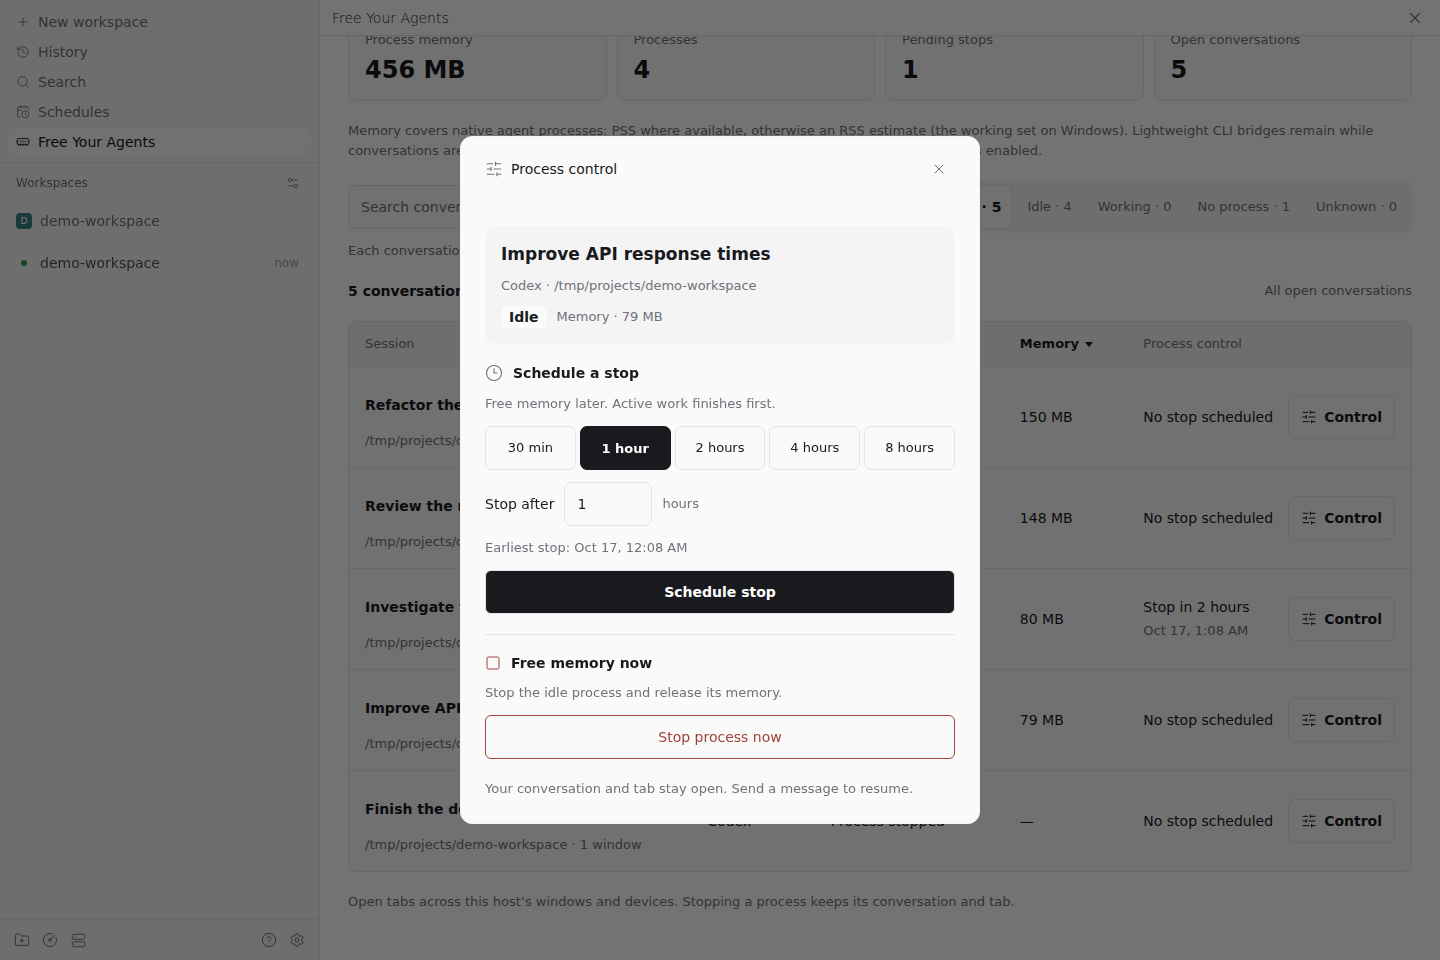
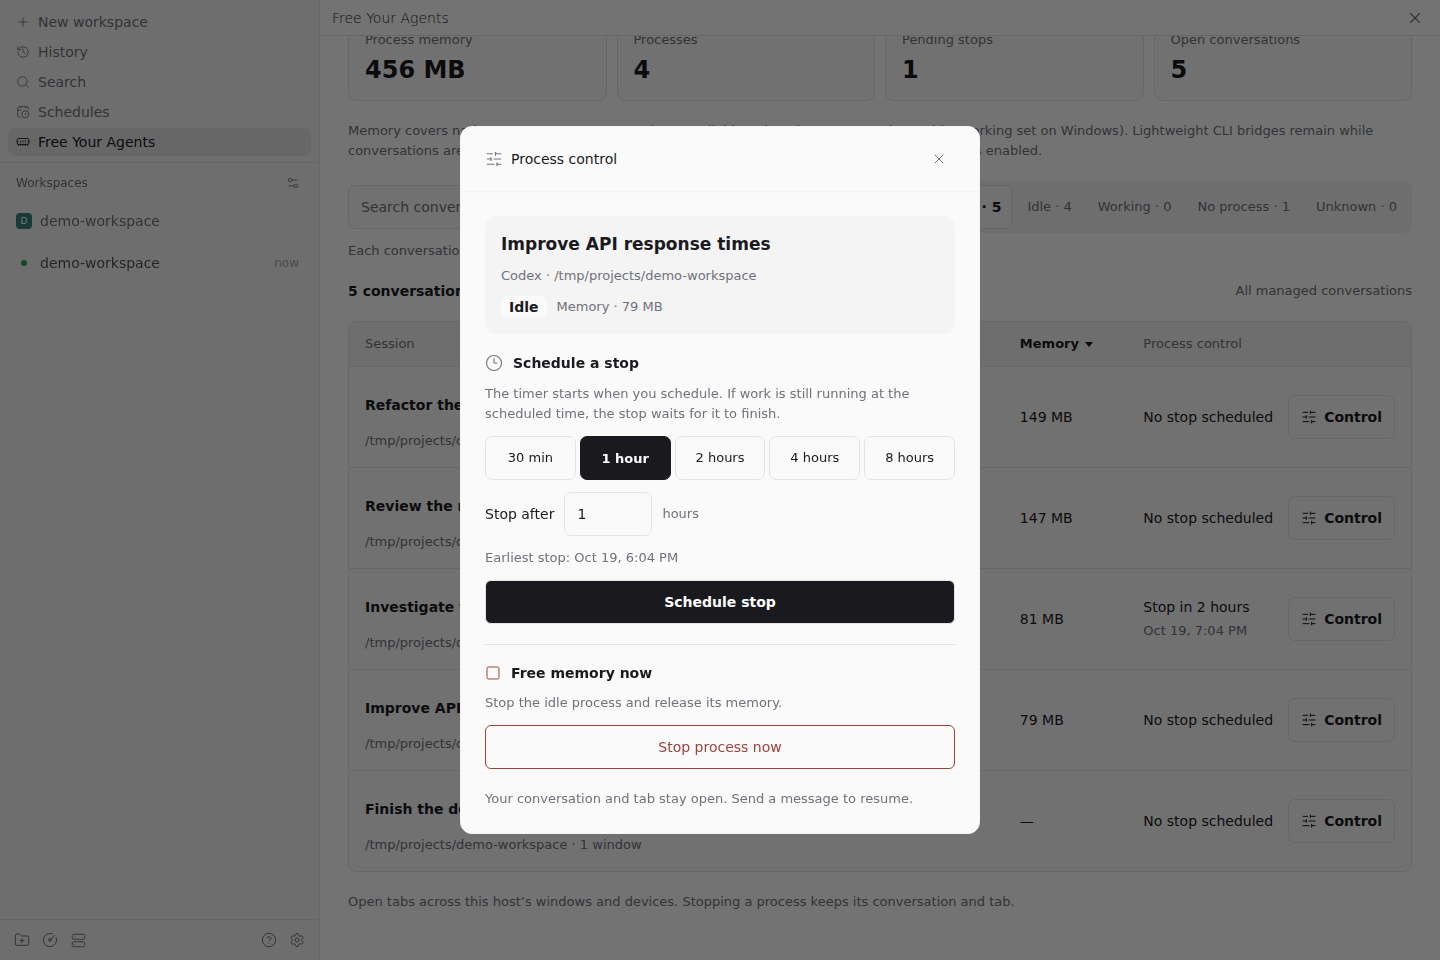
chore: release Free Your Agents v1.0.1

diff --git a/CHANGELOG.md b/CHANGELOG.md
@@ -1,0 +1,25 @@
+# Changelog
+
+## 1.0.1 — 2026-10-19
+
+### Added
+
+- Schedule, update or cancel a stop while Claude is working. The timer starts when the schedule is saved. Finishing early does not stop the process early; work that continues past the deadline keeps the process running until it is safe to stop. This also works on Paseo 0.11. ([#5](https://github.com/babo-jeonguk/paseo-free-your-agents/pull/5))
+- **Include background conversations** in the plugin's Settings. It is off by default and applies to every window and device connected to the host. Enabling it includes open tabs in background workspaces. ([#4](https://github.com/babo-jeonguk/paseo-free-your-agents/pull/4))
+
+### Changed
+
+- Manage conversations opened as tabs only; mobile conversation sheets are excluded. Background workspaces are excluded from the list, memory totals and process controls unless enabled in Settings. Turning the setting off cancels their pending stops without stopping their processes; turning it back on does not restore those stops. ([#4](https://github.com/babo-jeonguk/paseo-free-your-agents/pull/4))
+- Omit the `--no-maglev` workaround on Paseo 0.12 and later, where the upstream validator fix is included. Keep it on Paseo 0.11 and hosts whose version cannot be determined. ([#4](https://github.com/babo-jeonguk/paseo-free-your-agents/pull/4))
+
+### Upgrade notes
+
+- Paseo 0.11 remains supported. The validated agent CLI versions are unchanged: Codex 0.162.1 and 0.163.0, and Claude 2.1.299 and 2.1.301.
+- After updating, restart the Paseo daemon when no agent is working so existing conversations use the updated bridge. New conversations use it immediately.
+- Existing installations default to excluding background workspaces. Pending stops for conversations outside the managed scope are cancelled when the scope is reconciled. Enable **Include background conversations** and schedule them again if needed.
+
+## 1.0.0 — 2026-10-16
+
+First stable release: memory totals and sorting, status filters, immediate and scheduled stops, and same-session resume for Codex and Claude.
+
+[Release notes](https://github.com/babo-jeonguk/paseo-free-your-agents/releases/tag/v1.0.0).

diff --git a/OVERVIEW.md b/OVERVIEW.md
@@ -10,6 +10,6 @@ When the plugin first runs, it turns on process control for Codex and Claude by 
 
 ## Data and limits
 
-The plugin reads conversation titles, providers and workspaces through Paseo's API, open tab IDs from the app windows, and process memory from the operating system. It stores schedules, open-tab lists and original launch commands in its plugin data. After a stop, long Codex histories are replayed from encrypted temporary files that are deleted on resume. It makes no network requests of its own.
+The plugin reads conversation titles, providers and workspaces through Paseo's API, open tab IDs from the app windows, and process memory from the operating system. It stores management settings, schedules, open-tab lists and original launch commands in its plugin data. After a stop, long Codex histories are replayed from encrypted temporary files that are deleted on resume. It makes no network requests of its own.
 
 The bridge, about 20 MB per conversation, keeps running after a stop and is not counted in the totals. Memory is PSS on Linux and working set on Windows. Open tabs are read through a read-only adapter for the app's internals until Paseo offers a public API. It is tested in the web app; native iOS and Android apps are not validated yet.

diff --git a/assets/README.md b/assets/README.md
@@ -1,6 +1,6 @@
 # Screenshot provenance
 
-Captured on October 16, 2026 from the real Paseo 0.11.4 bundled web app and Free Your Agents, with Codex 0.163.0 and Claude 2.1.301, using Chromium through Playwright at a 1440 × 960 desktop viewport.
+Captured on October 19, 2026 from the real Paseo 0.12.0 bundled web app and Free Your Agents, with Codex 0.163.0 and Claude 2.1.301, using Chromium through Playwright at a 1440 × 960 desktop viewport.
 
 - `free-your-agents.png` shows the screen opened from the sidebar, with process control on for Codex and Claude by default and five open demo conversations (three Codex, two Claude).
 - `conversations.png` shows the same list scrolled down and sorted by memory, highest first: four idle processes, one stopped process, and a stop scheduled two hours ahead.
